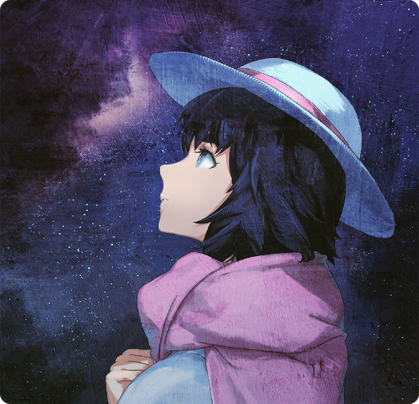
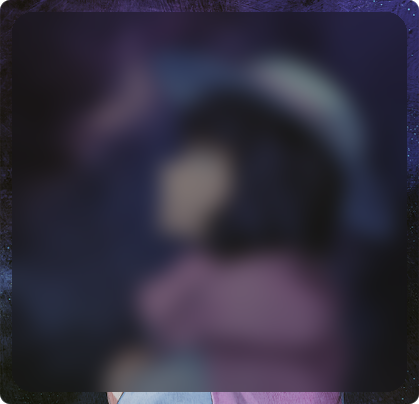
adding blurry background

diff --git a/app/utilities/drawingPlayground/master.py b/app/utilities/drawingPlayground/master.py
@@ -40,6 +40,20 @@ def drawProfileCard(avatar_url, nickname, discriminator, labmem_number, level, r
     # making background rounded rectangle (according to masks/background.png)
     background = applyAlphaWithMask(background, 'masks/background.png')
 
+    # adding blurry region in the middle of background
+    cropped_img = background.crop((
+        constants.blurry_background_offset[0],
+        constants.blurry_background_offset[1],
+        constants.blurry_region_size[0],
+        constants.blurry_region_size[1]
+    ))
+
+    blurred_img = cropped_img.filter(ImageFilter.GaussianBlur(10),).convert("RGBA")
+    alpha_bg = PIL.Image.new(mode="RGBA", size=blurred_img.size, color=(18, 17, 21, 127))
+    blurred_img = Image.alpha_composite(blurred_img, alpha_bg)
+
+    background.paste(blurred_img, (constants.blurry_background_offset[0], constants.blurry_background_offset[1]), create_rounded_rectangle_mask(cropped_img, constants.blurry_region_radius))
+
 
     # merging full_background (the one with alpha around it) with background (the one with all card contents in it)
     profile_card = background

diff --git a/app/utilities/drawingPlayground/constants.py b/app/utilities/drawingPlayground/constants.py
@@ -4,10 +4,11 @@
 
 # SIZES
 background_dimensions = (419, 404) # desired dimensions of card you want to crop out from 513x513 square
-
+blurry_region_radius = 20
+blurry_region_size = (407, 392)
 
 # OFFSETS
-
+blurry_background_offset = (12,12)
 
 
 # COLORS
